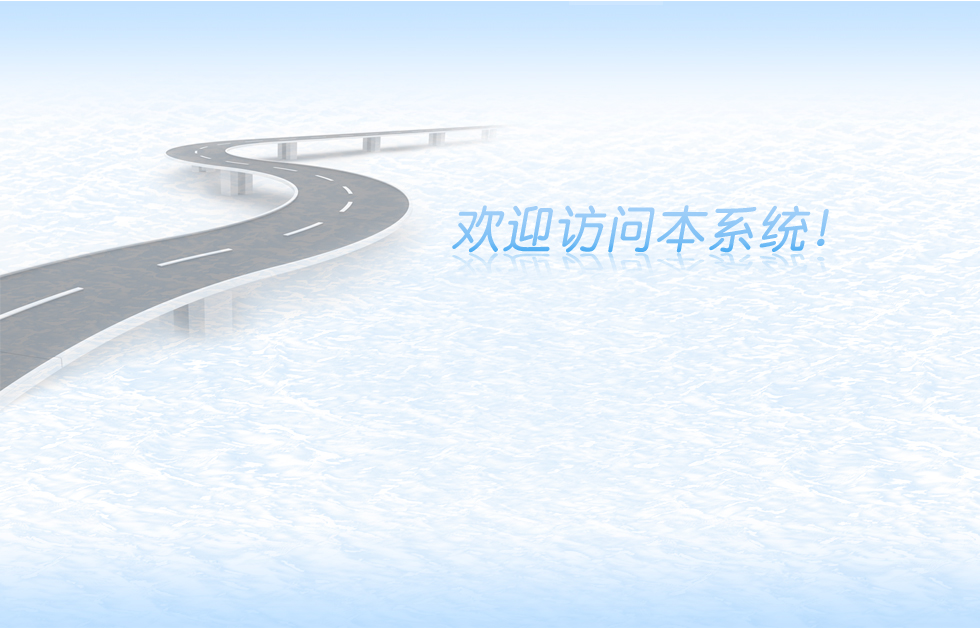
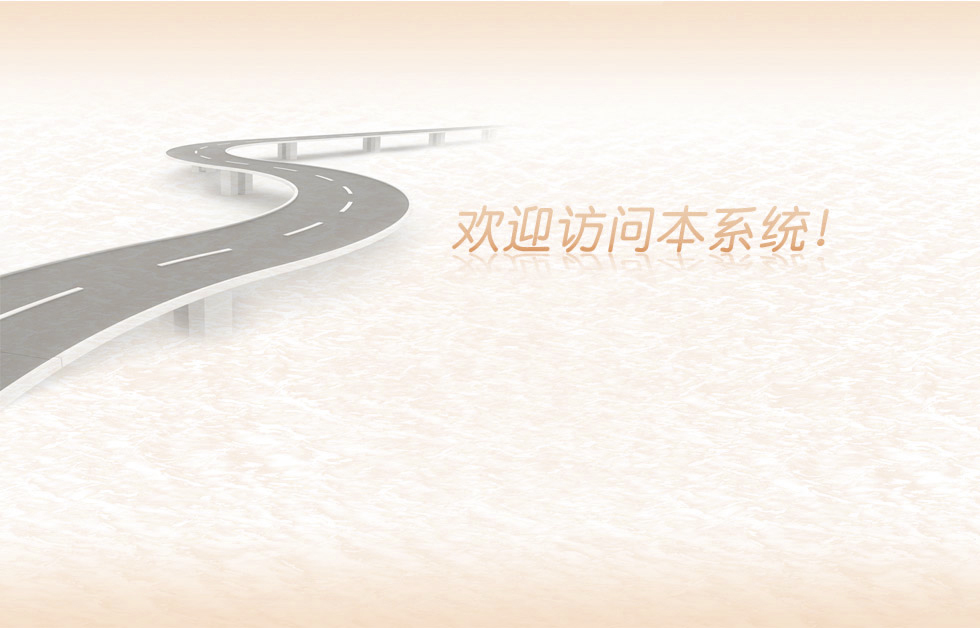
颜色修改

diff --git a/jxcsxm/src/main/webapp/easyui/themes/default/easyui.css b/jxcsxm/src/main/webapp/easyui/themes/default/easyui.css
@@ -105,7 +105,7 @@ input{ line-height:20px;}
 }
 .panel-header,
 .panel-body {
-  border-color: #95B8E7;
+  border-color: #fb9b34;
 }
 .panel-header {
   background-color: #E0ECFF;
@@ -160,11 +160,11 @@ input{ line-height:20px;}
   border-color: #95B8E7;
 }
 .accordion .accordion-header {
-  background: #E0ECFF;
+  background: #fbe4cc;
   filter: none;
 }
 .accordion .accordion-header-selected {
-  background: #87CEFA;
+  background: #fedab2;
 }
 .accordion .accordion-header-selected .panel-title {
   color: #000000;
@@ -335,11 +335,11 @@ input{ line-height:20px;}
   background-color: #ffffff;
 }
 .combo {
-  border-color: #95B8E7;
+  border-color: #fdb567;
   background-color: #ffffff;
 }
 .combo-arrow {
-  background-color: #E0ECFF;
+  background-color: #fbe4cc;
 }
 .combo-arrow-hover {
   background-color: #eaf2ff;
@@ -775,7 +775,7 @@ input{ line-height:20px;}
 }
 .tabs-header,
 .tabs-tool {
-  background-color: #E0ECFF;
+  background-color: #feead4;
 }
 .tabs-header-plain {
   background: transparent;
@@ -791,7 +791,7 @@ input{ line-height:20px;}
 .tabs-header-bottom .tabs li.tabs-selected a.tabs-inner,
 .tabs-header-left .tabs li.tabs-selected a.tabs-inner,
 .tabs-header-right .tabs li.tabs-selected a.tabs-inner {
-  border-color: #95B8E7;
+  border-color: #fb9b34;
 }
 .tabs-p-tool a:hover,
 .tabs li a:hover.tabs-close,
@@ -2121,11 +2121,11 @@ a.s-btn-plain-active {
   border-color: #95B8E7;
 }
 .tree-node-hover {
-  background: #eaf2ff;
+  background: #feeedd;
   color: #000000;
 }
 .tree-node-selected {
-  background: #B0E2FF;
+  background: #fde7cf;
   color: #000000;
 }
 .validatebox-tip {

diff --git a/jxcsxm/src/main/webapp/css/Top.css b/jxcsxm/src/main/webapp/css/Top.css
@@ -119,4 +119,4 @@ button
     right: 0px;
     top: 58px;
 }
-table fieldset{border:1px solid #cde0f3; margin-bottom:4px;}
+table fieldset{border:1px solid #fdd3a7; margin-bottom:4px;}
